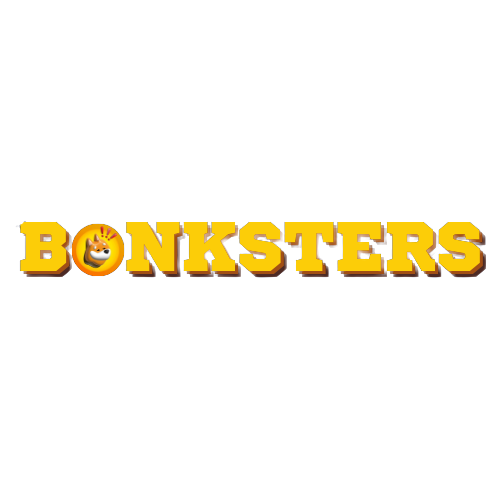
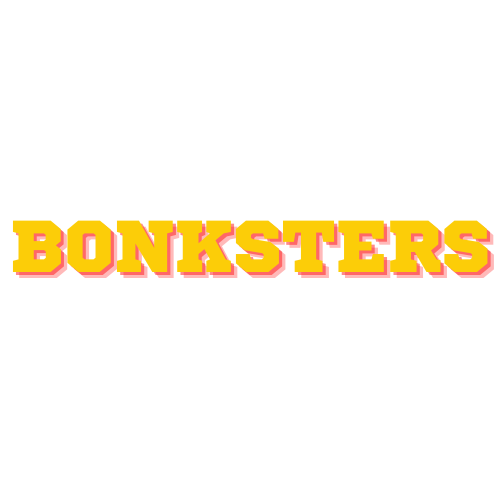
24/01/2023

Changed region(s): [[0.03, 0.42, 0.99, 0.57]]

diff --git a/src/app/home/home.component.html b/src/app/home/home.component.html
@@ -1,30 +1,34 @@
 <main>
   <div class="position-relative">
     <!-- Hero for FREE version -->
-    <section class="section section-sm section-hero section-shaped" >
+    <section class="section section-hero section-shaped" style="padding: 0">
 
       <div class="shape shape-style-1 shape-dark">
       </div>
       <div class="container shape-container d-flex align-items-center" style="margin-bottom: 50px;">
         <div class="col px-0">
-          <div class="row align-items-center justify-content-center">
-            <div class="col-lg-6 text-center" style="margin-top: 50px;">
-              <img src="./assets/img/bonksters.png" style="width: 300px; height: 200px; aspect-ratio: none;" class="img-fluid">
+          <div class="row align-items-center justify-content-center" style="padding:0">
+            <div class="col-lg-12 text-center" >
+              <img src="./assets/img/bonksters.png" style="width: 400px; height: 200px; aspect-ratio: none;" class="img-fluid">
 
-              <div class="col-12-lg">
-                <a href="https://twitter.com/BonkstersNFT" class="btn socials" style="font-family: myFirstFont; border-radius: 5em; box-shadow: 0px 0px 40px 5px rgb(252,205,8)">
+              <div class="col-lg-12" style="display: block;">
+                <p class="lead text-white" style="font-family: myFirstFont; font-size: 30px; font-weight: bold; display: inline-block;">
+                  A collection of 2,500 Bonksters coming to conquer solana ecosystem and EMBRACING <span style="font-family: myFirstFont; font-size: 30px; font-weight: bold; color:#f47407; display: inline-block;">&nbsp;$BONK.</span> 
+                </p> 
+                
+              </div>
+              <div class="col-12-lg" style="margin-top: 30px;">
+                <a href="https://twitter.com/BonkstersNFT" class="btn socials" style="font-family: myFirstFont; border-radius: 5em; box-shadow: 0px 0px 40px 5px #f47407 ">
                   <img src="https://cdn-icons-png.flaticon.com/512/3670/3670211.png" style="width: 24px; margin-right: 5px;" class="img-fluid">
                   <a class="nav-link-inner--text">Twitter</a>
                 </a>
   
-                <a href="https://discord.gg/DnQubshx" class="btn socials" style="font-family: myFirstFont; border-radius: 5em; box-shadow: 0px 0px 40px 5px rgb(252,205,8)">
+                <a href="https://discord.gg/DnQubshx" class="btn socials" style="font-family: myFirstFont; border-radius: 5em; box-shadow: 0px 0px 40px 5px #f47407 ">
                   <img src="https://cdn-icons-png.flaticon.com/512/3670/3670157.png" style="width: 24px; margin-right: 5px;" class="img-fluid">
                   <a class="nav-link-inner--text">Discord</a>
                 </a>
               </div>
 
-              <p class="lead text-white" style="font-family: myFirstFont; font-size: 20px; font-weight: bold;">A collection of 2,500 Bonksters coming to conquer solana ecosystem and embrace $BONK . 
-              </p>
             </div>
           </div>
         </div>
@@ -36,7 +40,7 @@
     
   </div>
 
-  <section class="section section-sm section-hero section-shaped">
+  <section class="section section-shaped" style="padding: 0px;">
 
     <div class="shape shape-style-1 shape-dark">
     </div>
@@ -44,32 +48,85 @@
     <div class="container pb-100" >
       <div class="row row-grid mt-5 card1" style="padding: 10px;">
         <div class="col-lg-12" style="margin: 20px;">
-          <h5 class="mt-3" style="text-align: center; font-family: myFirstFont; font-size: 25px; font-weight: bold; color: rgb(252,205,8);">Mint Infos</h5>
+          <h5 class="mt-3" style="text-align: center; font-family: myFirstFont; font-size: 25px; font-weight: bold; color: #f47407">Mint Details</h5>
         </div>
-          <div class="col-lg-5 card1-ws">
-            <h3 class="mt-3" style="font-family: myFirstFont; font-size: 20px; color: rgb(252,205,8);">
-              Phase 1: WL Token Mint 
-              <a class="btn socials" style="margin-left: 5px; top: 5px; right: 5px; position: absolute" (click)="tokenModal()">
+        <div class="col-lg-6" style="padding: 10px;">
+          <div class="card1-ws" style="padding: 5px;">
+            
+            <h3 class="mt-3" style="font-family: myFirstFont; font-size: 20px; color: #f47407;">
+              Phase 1: Free Mint Token 
+              <a class="btn socials" style="margin-left: 5px; top: 15px; right: 15px; position: absolute" (click)="tokenModal()">
                 <img src="./assets/img/token.png" style="width: 24px;" class="img-fluid">
-                <a class="nav-link-inner--text" style="font-family: myFirstFont; font-size: 10px">Token Infos</a>
+                <a class="nav-link-inner--text" style="font-family: myFirstFont; font-size: 10px">Token Details</a>
               </a>
             </h3> 
               <p class="text-white mt-3" style="top: 0px; position: relative; margin-left: 20px; font-family: myFirstFont;; text-align: left;">Price: Free</p>
               <p class="text-white mt-3" style="top: 0px; position: relative; margin-left: 20px; font-family: myFirstFont;; text-align: left;">Date: TBA</p>
           </div>
-          <div class="col-lg-2"></div>
-          <div class="col-lg-5 card1-ws">
-            <h3 class="mt-3" style="font-family: myFirstFont;; font-size: 20px; color: rgb(252,205,8);">Phase 2: Public Mint </h3>
-              <p class="text-white mt-3" style="top: 0px; position: relative; margin-left: 20px; font-family: myFirstFont;; text-align: left;">Price: TBA</p>
-              <p class="text-white mt-3" style="top: 0px; position: relative; margin-left: 20px; font-family: myFirstFont;; text-align: left;">Date: TBA</p>
+        </div>
+          
+          <div class="col-lg-6" style="padding: 10px;">
+            <div class="card1-ws" style="padding: 5px;">
+              <h3 class="mt-3" style="font-family: myFirstFont;; font-size: 20px; color: #f47407 ;">Phase 2: Public Mint </h3>
+                <p class="text-white mt-3" style="top: 0px; position: relative; margin-left: 20px; font-family: myFirstFont;; text-align: left;">Price: TBA</p>
+                <p class="text-white mt-3" style="top: 0px; position: relative; margin-left: 20px; font-family: myFirstFont;; text-align: left;">Date: TBA</p>
+            </div>
+          </div>
+          
+      </div>
+      
+    </div>
+  </section>
+
+  <section class="section section-shaped" style="padding: 0px;">
+
+    <div class="shape shape-style-1 shape-dark">
+    </div>
+
+    <div class="container pb-100" >
+      <div class="row row-grid mt-5 card1" style="padding: 10px;">
+        <div class="col-lg-12" style="margin: 20px;">
+          <h5 class="mt-3" style="text-align: center; font-family: myFirstFont; font-size: 25px; font-weight: bold; color: #f47407">Coins Details</h5>
+        </div>
+        
+          <div class="col-lg-4" style="padding: 5px;">
+            <div class="card1-ws" style="color: #f4cd08;">
+              <h3 class="mt-3" style="font-family: myFirstFont; font-size: 20px; color: #f4cd08; text-align: center;">
+                <img src="./assets/img/token.png" style="width: 64px;" class="img-fluid">
+                GOLD
+              </h3> 
+                <p class="mt-3" style="top: 0px; position: relative; margin-left: 20px; font-family: myFirstFont;; text-align: left;">Supply: 375</p>
+                <p class="mt-3" style="top: 0px; position: relative; margin-left: 20px; font-family: myFirstFont;; text-align: left;">Multiplier: 3x</p>
+            </div>
+          </div>
+          
+          <div class="col-lg-4" style="padding: 5px;">
+            <div class="card1-ws" style="color: #808a8d;">
+              <h3 class="mt-3" style="font-family: myFirstFont; font-size: 20px; color: #808a8d; text-align: center;">
+                <img src="./assets/img/2.png" style="width: 64px;" class="img-fluid">
+                SILVER
+              </h3> 
+                <p class="mt-3" style="top: 0px; position: relative; margin-left: 20px; font-family: myFirstFont;; text-align: left;">Supply: 750</p>
+                <p class="mt-3" style="top: 0px; position: relative; margin-left: 20px; font-family: myFirstFont;; text-align: left;">Multiplier: 2x</p>
+            </div>
+          </div>
+
+          <div class="col-lg-4" style="padding: 5px;">
+            <div class="card1-ws" style="color: #793536;">
+              <h3 class="mt-3" style="font-family: myFirstFont; font-size: 20px; color: #793536; text-align: center;">
+                <img src="./assets/img/1.png" style="width: 64px;" class="img-fluid">
+                BRONZE
+              </h3> 
+                <p class="mt-3" style="top: 0px; position: relative; margin-left: 20px; font-family: myFirstFont;; text-align: left;">Supply: 1375</p>
+                <p class="mt-3" style="top: 0px; position: relative; margin-left: 20px; font-family: myFirstFont;; text-align: left;">Multiplier: 1x</p>
+            </div>
           </div>
       </div>
       
     </div>
   </section>
 
-
-  <section class="section section-sm section-hero section-shaped">
+  <section class="section section-shaped" style="padding: 0px;">
 
     <div class="shape shape-style-1 shape-dark">
     </div>
@@ -77,41 +134,56 @@
     <div class="container pb-100" >
       <div class="row row-grid mt-5 card1" style="padding: 10px;">
         <div class="col-lg-12" style="margin: 20px;">
-          <h5 class="mt-3" style="text-align: center; font-family: myFirstFont;; font-size: 25px; font-weight: bold; color: rgb(252,205,8);">Roadmap - PHASE 1 -</h5>
+          <h5 class="mt-3" style="text-align: center; font-family: myFirstFont;; font-size: 25px; font-weight: bold; color: #f47407;">Roadmap - PHASE 1 -</h5>
         </div>
-          <div class="col-lg-5 card1-ws">
-            <h3 class="mt-3" style="font-family: myFirstFont; font-size: 20px; color: rgb(252,205,8);">
-              <a class="nav-link-inner--text" style="background-color: rgb(252, 114, 8); border-radius: 5em; color: white; padding: 5px;">1</a> BONK Bank
-            </h3> 
-              <p class="text-white mt-3" style="top: 0px; position: relative; margin-left: 20px; font-family: myFirstFont; text-align: left;">
-                Holders will be able to claim a daily $BONK reward based on the amount and variation of NFTs held.
-              </p>
+
+          <div class="col-lg-6" style="padding: 15px;">
+            <div class="col-lg-12 card1-ws" style="position: relative;
+            height: auto;
+            min-height: 100% !important;">
+              <h3 class="mt-3" style="font-family: myFirstFont; font-size: 20px; color: #f47407;">
+                <a class="nav-link-inner--text" style="background-color: rgb(252, 114, 8); border-radius: 5em; color: white; padding: 5px;">1</a> BONK Bank
+              </h3> 
+                <p class="text-white mt-3" style="top: 0px; position: relative; margin-left: 20px; font-family: myFirstFont; text-align: left;">
+                  Holders will be able to claim a daily $BONK reward based on the amount and variation of NFTs held.
+                </p>
+            </div>
           </div>
-          <div class="col-lg-2"></div>
-          <div class="col-lg-5 card1-ws">
-            <h3 class="mt-3" style="font-family: myFirstFont; font-size: 20px; color: rgb(252,205,8);">
-              <a class="nav-link-inner--text" style="background-color: rgb(252, 114, 8); border-radius: 5em; color: white; padding: 5px;">2</a> Raid2Earn Platform
-            </h3>
-            <p class="text-white mt-3" style="top: 0px; position: relative; margin-left: 20px; font-family: myFirstFont; text-align: left;">
-                Holders will be able to earn $BONK for raiding Twitter posts. The reward will be determined by the number and variation of NFTs held.
-            </p>
-          </div>
-          <div class="col-lg-5 card1-ws" style="margin-top: 10px;">
-            <h3 class="mt-3" style="font-family: myFirstFont; font-size: 20px; color: rgb(252,205,8);">
-              <a class="nav-link-inner--text" style="background-color: rgb(252, 114, 8); border-radius: 5em; color: white; padding: 5px;">3</a> Raiders Leaderboard
-            </h3> 
+          <div class="col-lg-6" style="padding: 15px;">
+            <div class="col-lg-12 card1-ws" style="position: relative;
+            height: auto;
+            min-height: 100% !important;">
+              <h3 class="mt-3" style="font-family: myFirstFont; font-size: 20px; color: #f47407 ;">
+                <a class="nav-link-inner--text" style="background-color: rgb(252, 114, 8); border-radius: 5em; color: white; padding: 5px;">2</a> Raid2Earn Platform
+              </h3>
               <p class="text-white mt-3" style="top: 0px; position: relative; margin-left: 20px; font-family: myFirstFont; text-align: left;">
-                Our holders will earn points for raiding, engaging in our discord (messages, announcement reactions, and so on), and purchasing NFTs from our collection. Each month, the top three will receive prizes such as NFTs or $BONK.
+                  Holders will be able to earn $BONK for raiding Twitter posts. The reward will be determined by the number and variation of NFTs held.
               </p>
+            </div>
           </div>
-          <div class="col-lg-2" style="margin-top: 10px;"></div>
-          <div class="col-lg-5 card1-ws" style="margin-top: 10px;">
-            <h3 class="mt-3" style="font-family: myFirstFont; font-size: 20px; color: rgb(252,205,8);">
-              <a class="nav-link-inner--text" style="background-color: rgb(252, 114, 8); border-radius: 5em; color: white; padding: 5px;">4</a> Bonksters HUB
-            </h3>
-              <p class="text-white mt-3" style="top: 0px; position: relative; margin-left: 20px; font-family: myFirstFont; text-align: left;">
-                Other projects can use our Raid2Earn platform to create twitter posts to raid, and only their holders and bonksters holders can benefit from raiding and taking rewards.
-              </p>
+          <div class="col-lg-6" style="padding: 15px;">
+            <div class="col-lg-12 card1-ws" style="position: relative;
+            height: auto;
+            min-height: 100% !important;">
+              <h3 class="mt-3" style="font-family: myFirstFont; font-size: 20px; color: #f47407 ;">
+                <a class="nav-link-inner--text" style="background-color: rgb(252, 114, 8); border-radius: 5em; color: white; padding: 5px;">3</a> Raiders Leaderboard
+              </h3> 
+                <p class="text-white mt-3" style="top: 0px; position: relative; margin-left: 20px; font-family: myFirstFont; text-align: left;">
+                  Our holders will earn points for raiding, engaging in our discord (messages, announcement reactions, and so on), and purchasing NFTs from our collection. Each month, the top three will receive prizes such as NFTs or $BONK.
+                </p>
+            </div>
+          </div>
+          <div class="col-lg-6" style="padding: 15px;">
+            <div class="col-lg-12 card1-ws" style="position: relative;
+            height: auto;
+            min-height: 100% !important;">
+              <h3 class="mt-3" style="font-family: myFirstFont; font-size: 20px; color: #f47407 ;">
+                <a class="nav-link-inner--text" style="background-color: rgb(252, 114, 8); border-radius: 5em; color: white; padding: 5px;">4</a> Bonksters HUB
+              </h3>
+                <p class="text-white mt-3" style="top: 0px; position: relative; margin-left: 20px; font-family: myFirstFont; text-align: left;">
+                  Other projects can use our Raid2Earn platform to create twitter posts to raid, and only their holders and bonksters holders can benefit from raiding and taking rewards.
+                </p>
+            </div>
           </div>
       </div>
       

diff --git a/src/app/shared/footer/footer.component.html b/src/app/shared/footer/footer.component.html
@@ -21,7 +21,7 @@
   <div class="container">
     <div class="row row-grid align-items-center" [ngClass]="{'my-md': getPath()!=='/user-profile' && getPath()!=='/register' && getPath()!=='/login', 'mb-5':getPath()==='/user-profile' || getPath()==='/register' || getPath()==='/login'}">
       <div class="col-lg-6">
-        <h3 class="text-white font-weight-light mb-2" style="font-family: 'Manrope';">Thank you for supporting us!</h3>
+        <h3 class="text-white font-weight-light mb-2" style="font-family: myFirstFont;">Thank you for supporting us!</h3>
       </div>
       <div class="col-lg-6 text-lg-center btn-wrapper">
         <!--<a target="_blank" href="#" class="btn btn-neutral btn-icon-only btn-twitter btn-round btn-lg" ngbTooltip="Follow us">
@@ -39,7 +39,7 @@
       <div class="col-md-6">
         <div class="copyright text-white" style="font-family: 'Manrope';">
           <!--&copy; {{test | date: 'yyyy'}}-->
-          <a href="#" target="_blank" style="font-family: 'Manrope';">Bonksters</a>.
+          <a href="#" target="_blank" style="font-family: myFirstFont;">Bonksters</a>.
         </div>
       </div>
       <div class="col-md-6">

diff --git a/src/app/home/home.component.scss b/src/app/home/home.component.scss
@@ -104,9 +104,9 @@ p {
 
 
 .card1 {
-  border:1px solid rgb(252,205,8);
+  border:1px solid #f47407 ;
   border-radius: 2em;
-  box-shadow: 0px 0px 40px 5px rgb(252,205,8)
+  box-shadow: 0px 0px 40px 5px #f47407;
     /*border-color: rgb(252,205,8);
     background-color: #f8ac03;
     border-width: 2px;
@@ -263,19 +263,19 @@ p {
 
   .socials {
     background-color: transparent;
-    border-color: rgb(252,205,8);
+    border-color: #f47407 ;
     border-radius: 5em;
-    color: rgb(252,205,8);
+    color: #f47407 ;
     border-width: 1px;
   }
 
   .socials:hover {
-    background-color: #f8ac03;
+    background-color: #f47407 ;
     color: white;
   }
 
   .card1-ws {
-    border:1px solid rgb(252,205,8);
+    border:1px solid #f47407;
     border-radius: 2em;
       /*border-color: rgb(252,205,8);
       background-color: #f8ac03;

diff --git a/src/app/app.component.html b/src/app/app.component.html
@@ -1,4 +1,4 @@
-<app-navbar></app-navbar>
+<!--<app-navbar></app-navbar>-->
 <!--<app-navbar2></app-navbar2>-->
 <router-outlet></router-outlet>
 <app-footer></app-footer>
